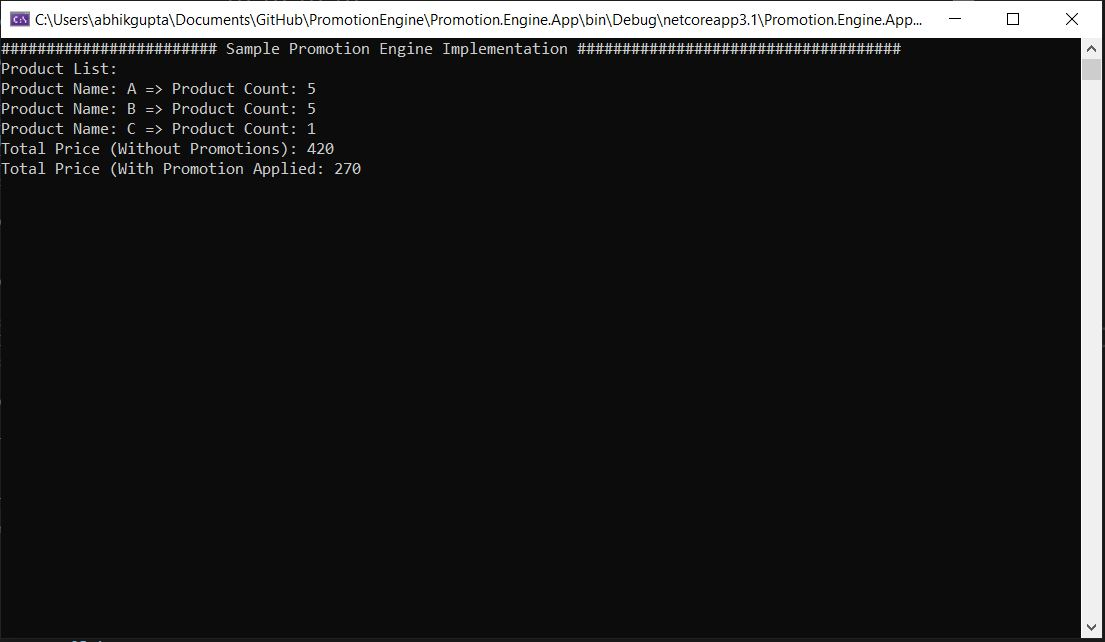
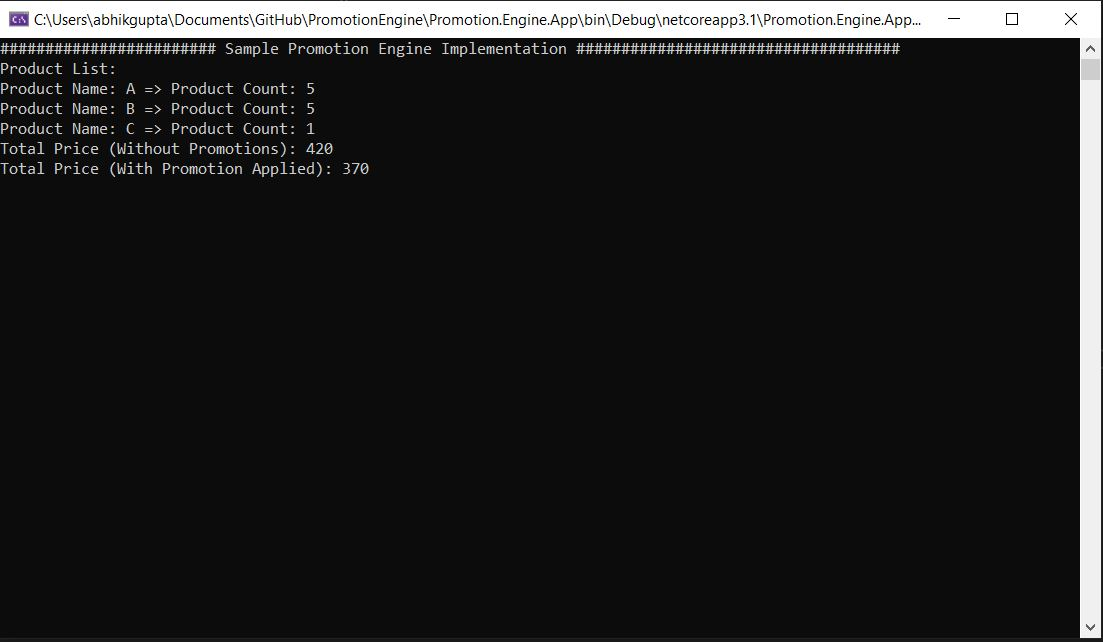
Scenario Validation

diff --git a/Promotion.Engine.App/Program.cs b/Promotion.Engine.App/Program.cs
@@ -21,10 +21,10 @@ namespace Promotion.Engine.App
             var promotionCalculationManager = serviceProvider.GetService<IPromotionCalculationManager>();
 
             SalesProductsLineItems salesProductsLineItems = new SalesProductsLineItems();           
-            salesProductsLineItems.SalesProductDetails.Add("A", 3);
+            salesProductsLineItems.SalesProductDetails.Add("A", 5);
             salesProductsLineItems.SalesProductDetails.Add("B", 5);
             salesProductsLineItems.SalesProductDetails.Add("C", 1);
-            salesProductsLineItems.SalesProductDetails.Add("D", 1);
+            //salesProductsLineItems.SalesProductDetails.Add("D", 1);
 
             Console.WriteLine("Product List:");
             foreach(var product in salesProductsLineItems.SalesProductDetails)

diff --git a/Promotion.Engine.Domain/PromotionCalculationManager.cs b/Promotion.Engine.Domain/PromotionCalculationManager.cs
@@ -69,7 +69,7 @@ namespace Promotion.Engine.Domain
                     int productCount = salesProductDetails[productName];
                     int givenProductOfferCount = promotionCoupon.ProductCoupon[productName];
                     int productOfferCount = productCount / givenProductOfferCount;
-                    int remainingProductCount = productCount % productOfferCount;
+                    int remainingProductCount = productCount % givenProductOfferCount;
                     salesProductDetails[productName] = remainingProductCount;
                     promotionCouponDiscountPrice = productOfferCount * promotionCoupon.DiscountPrice;
                 }
